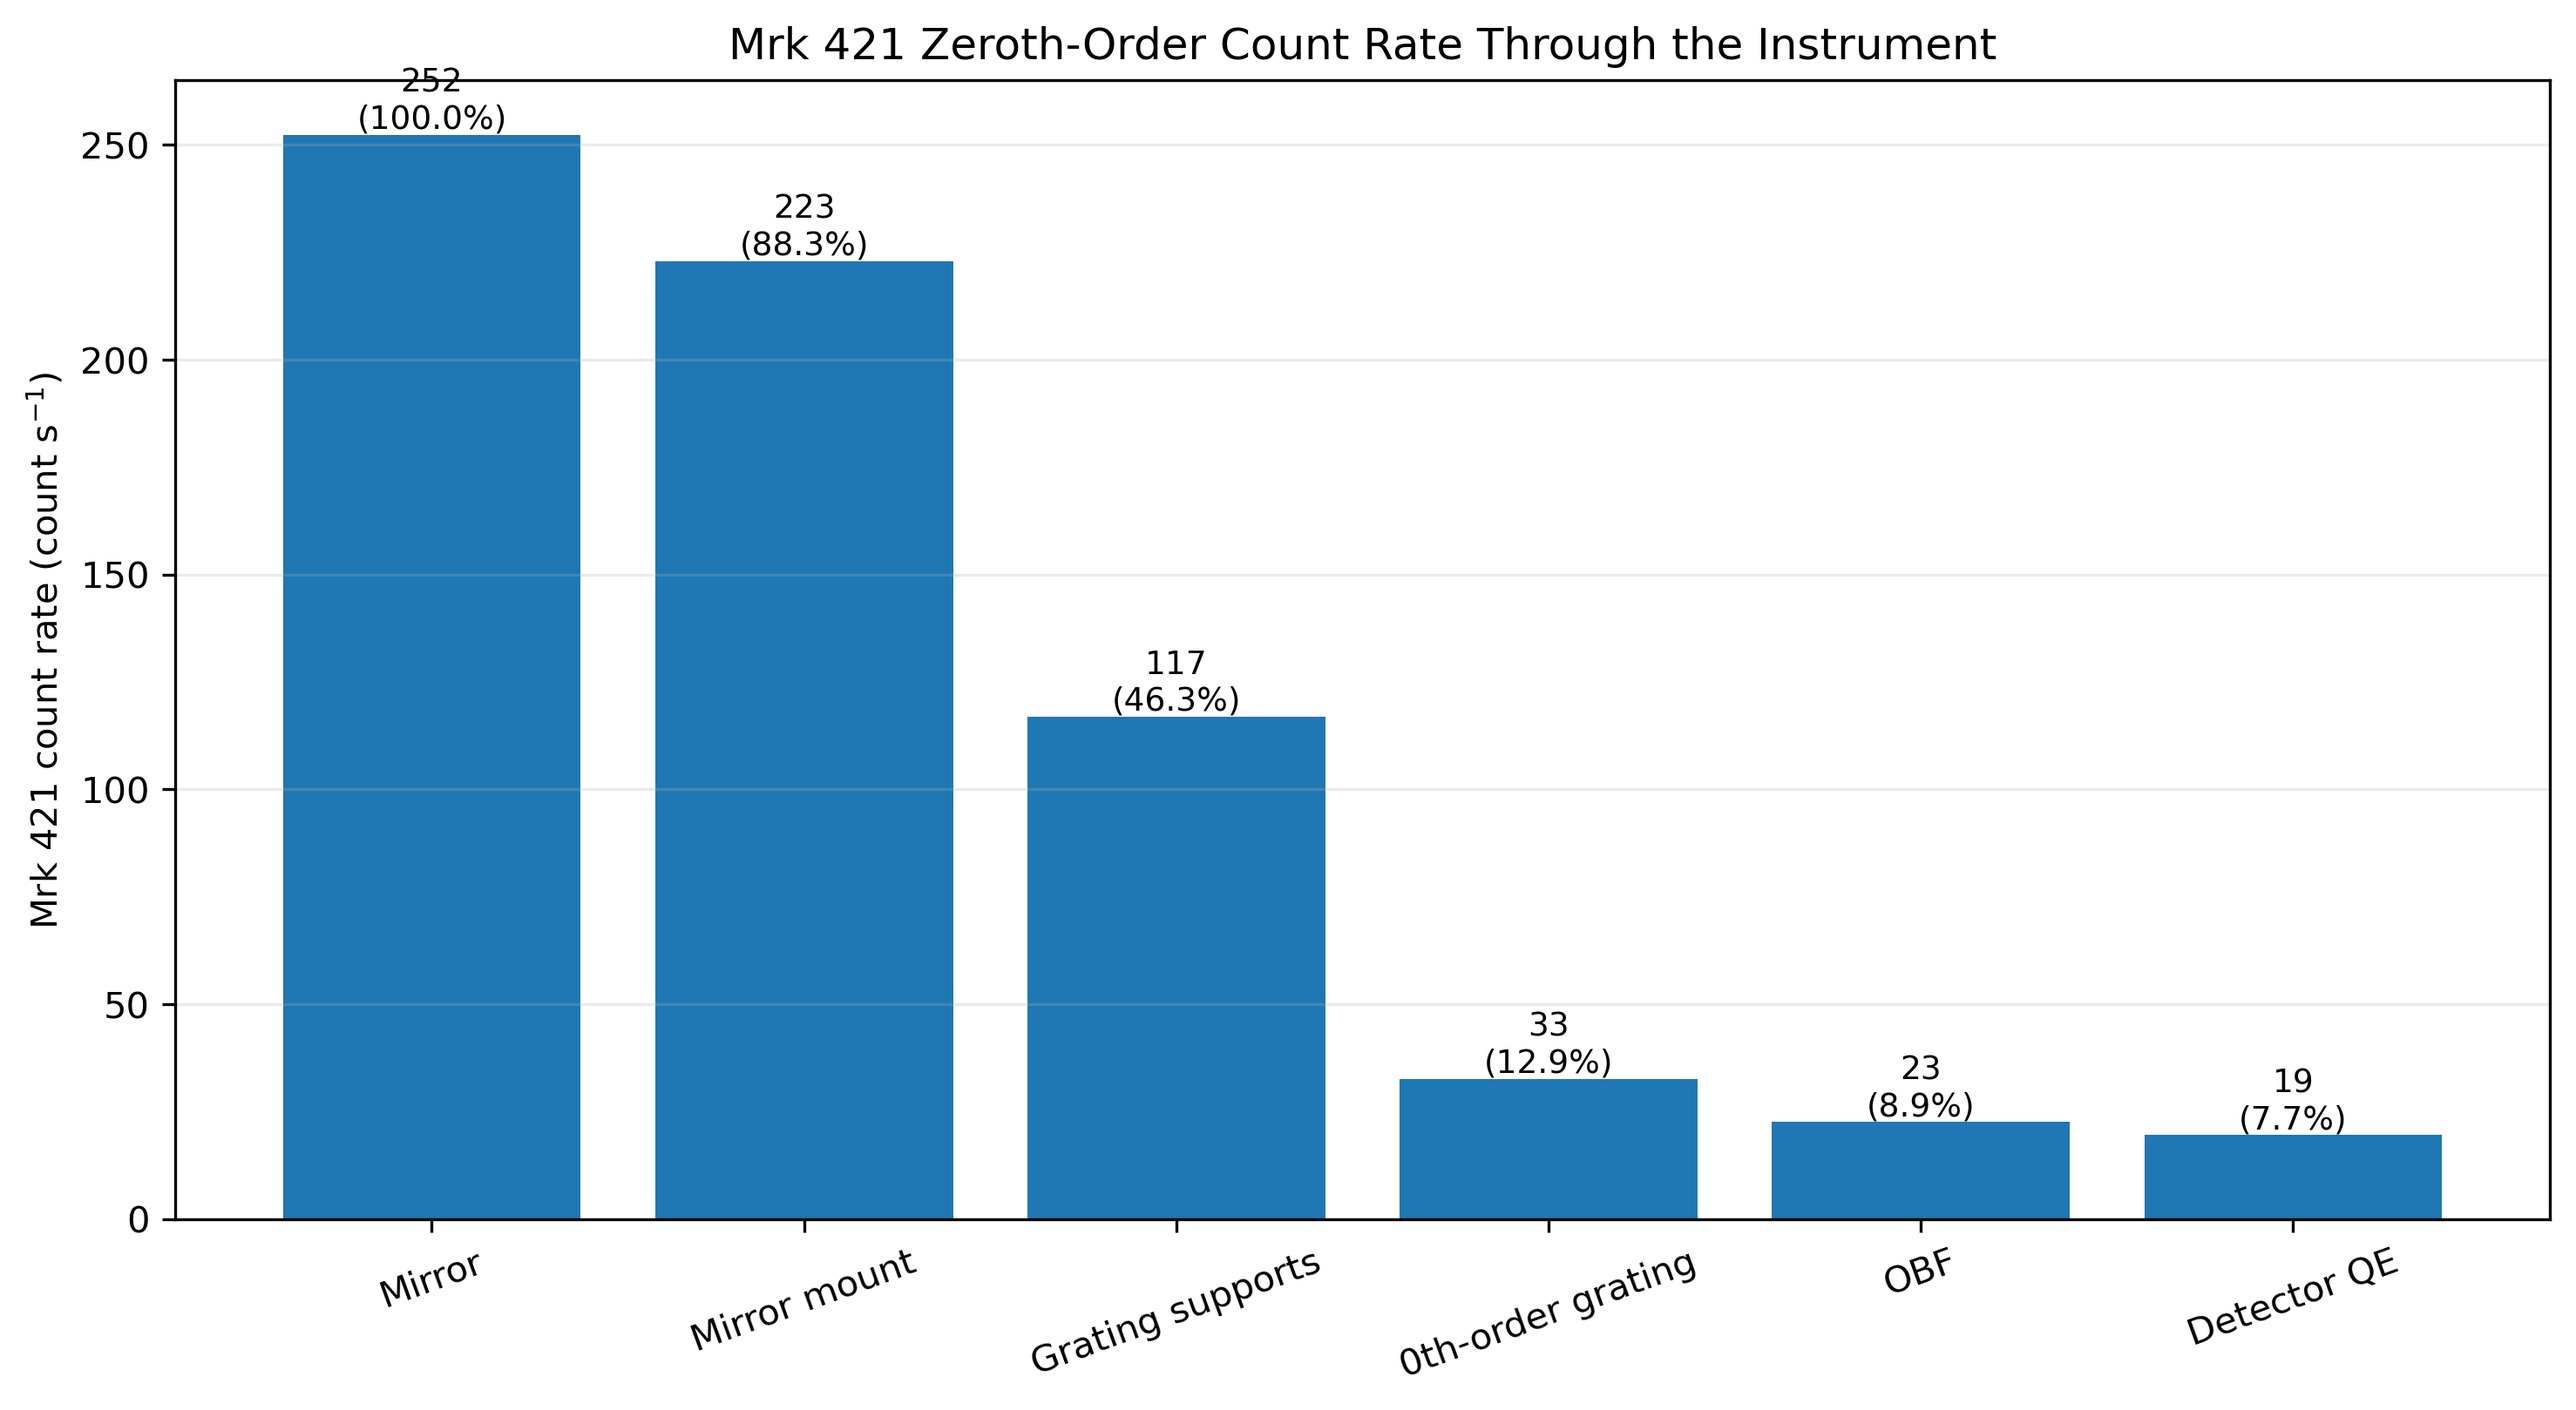
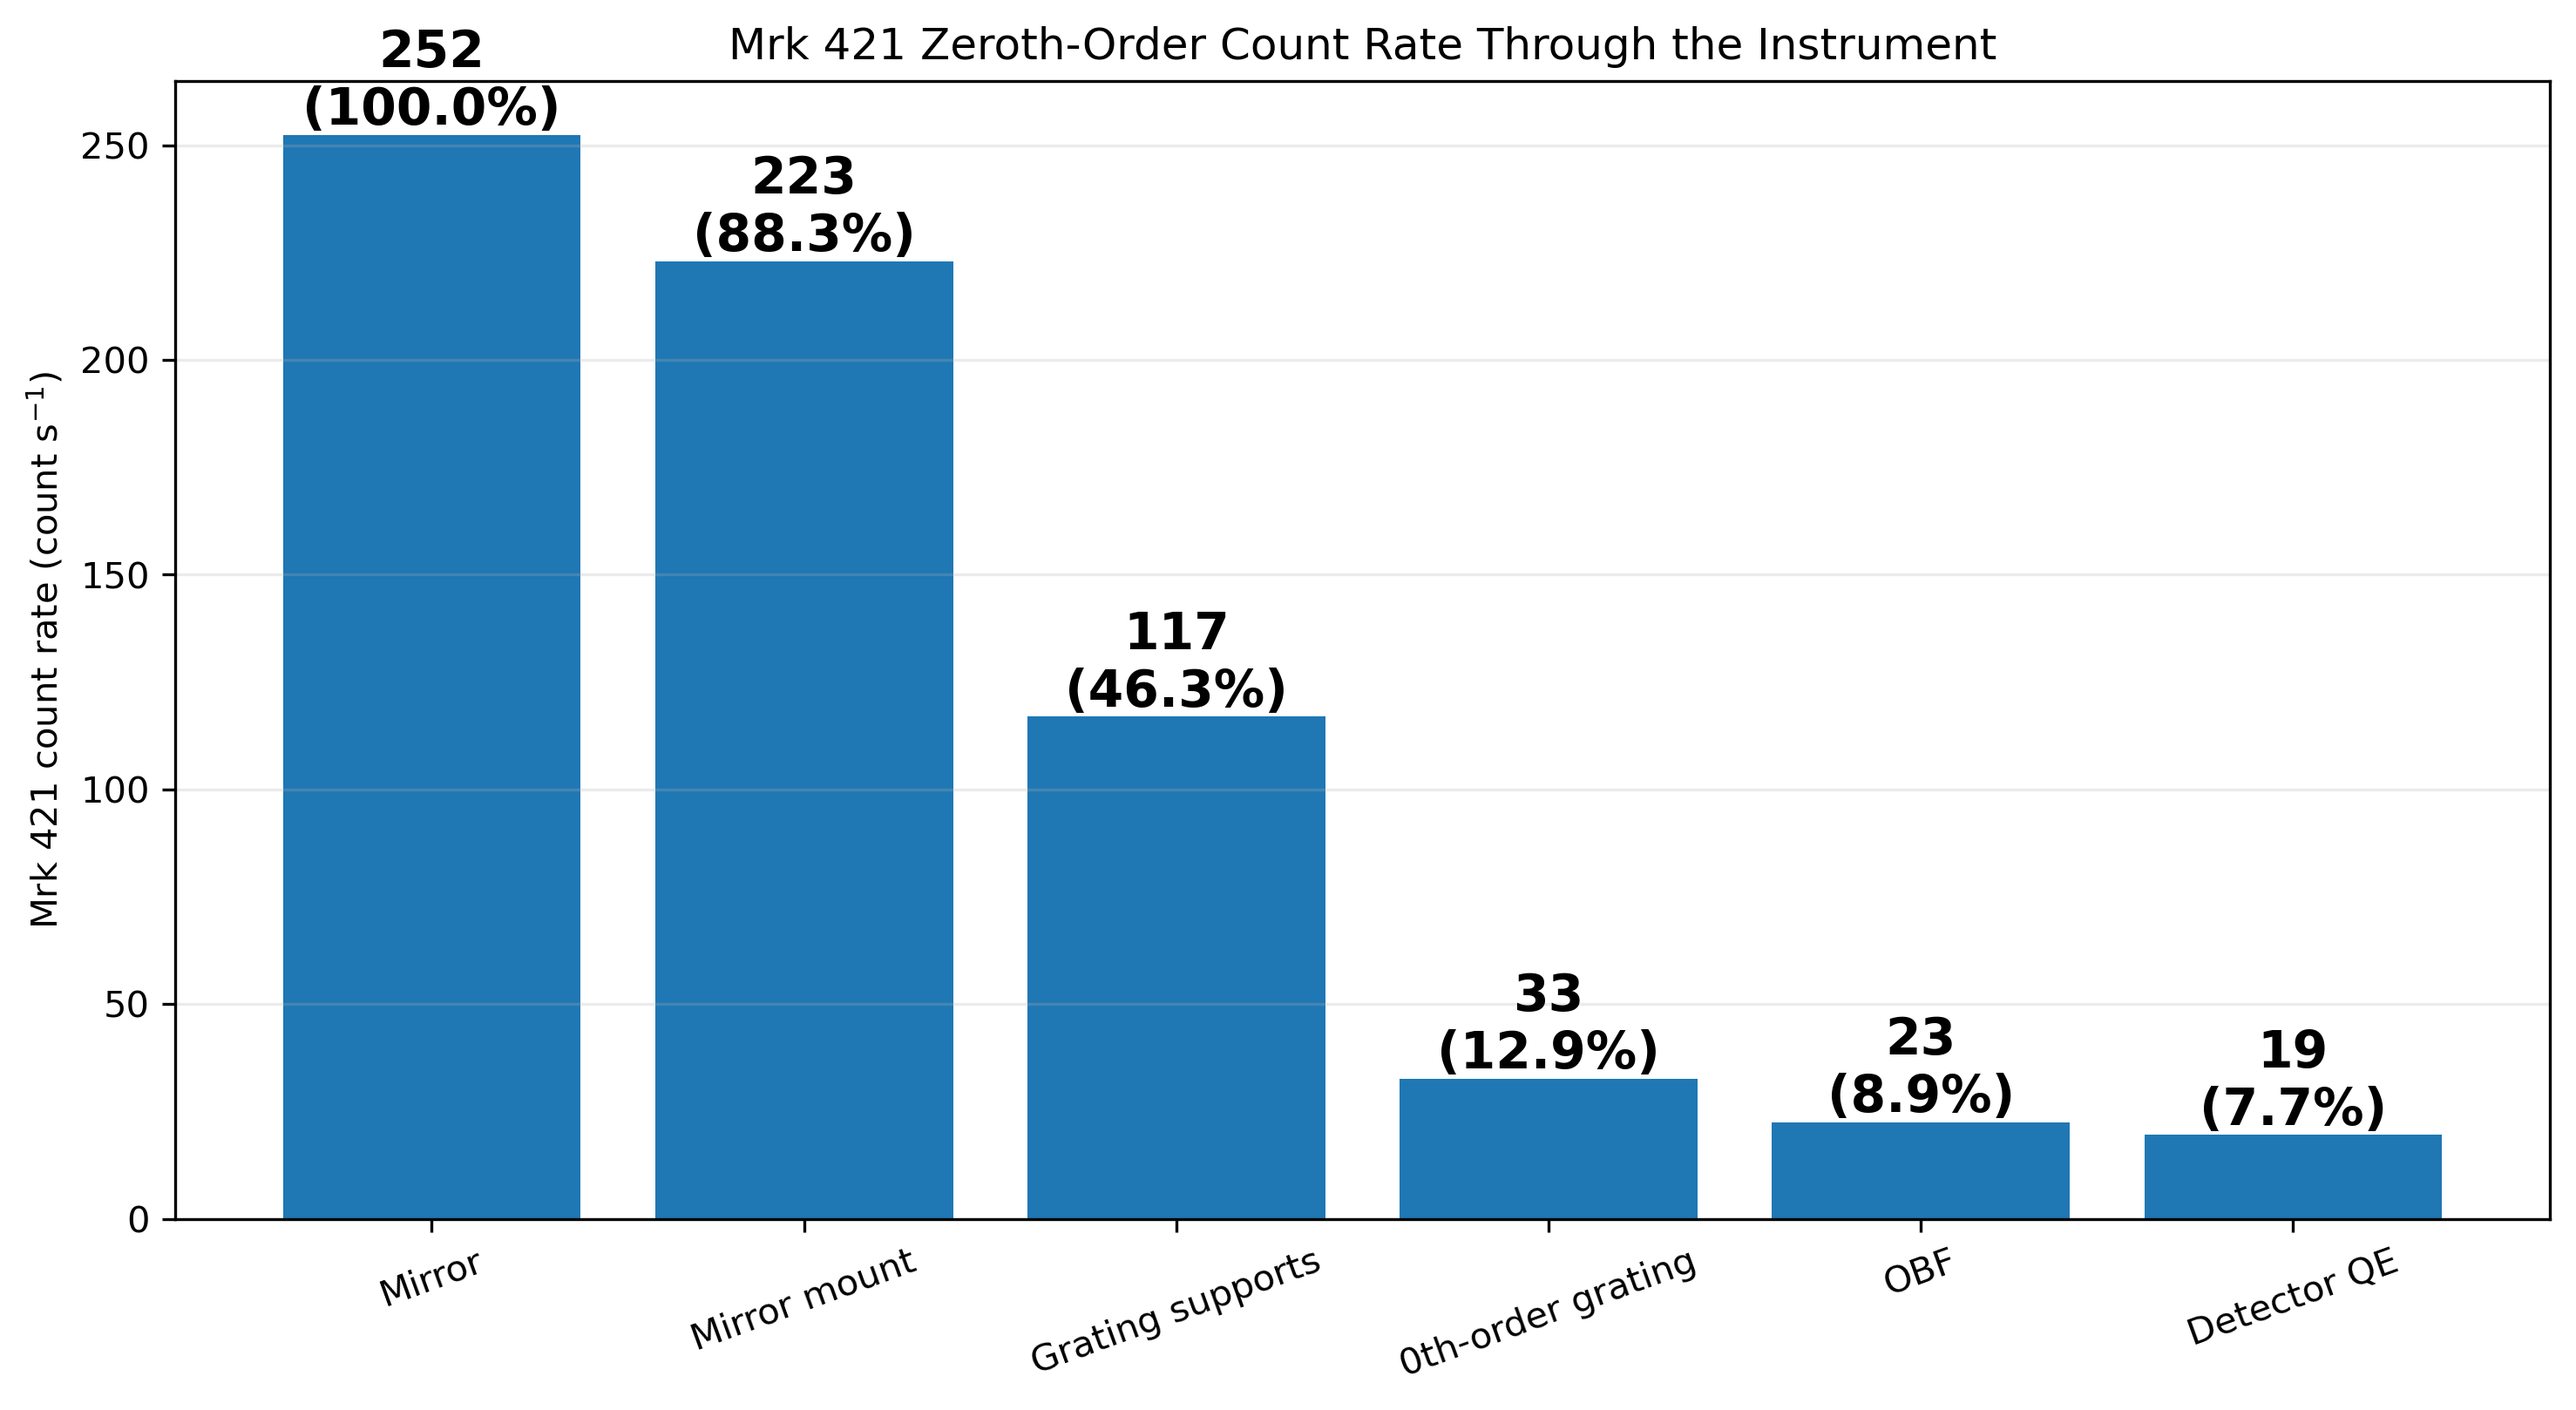
Made count rates bar graph more legible

diff --git a/plot_redsox.py b/plot_redsox.py
@@ -447,7 +447,8 @@ def plot_stage_count_rate_bars(stage_rates, output_path):
             f"{rate:.0f}\n({percent:.1f}%)",
             ha="center",
             va="bottom",
-            fontsize=9,
+            fontsize=14,
+            fontweight="bold"
         )
 
     fig.tight_layout()
